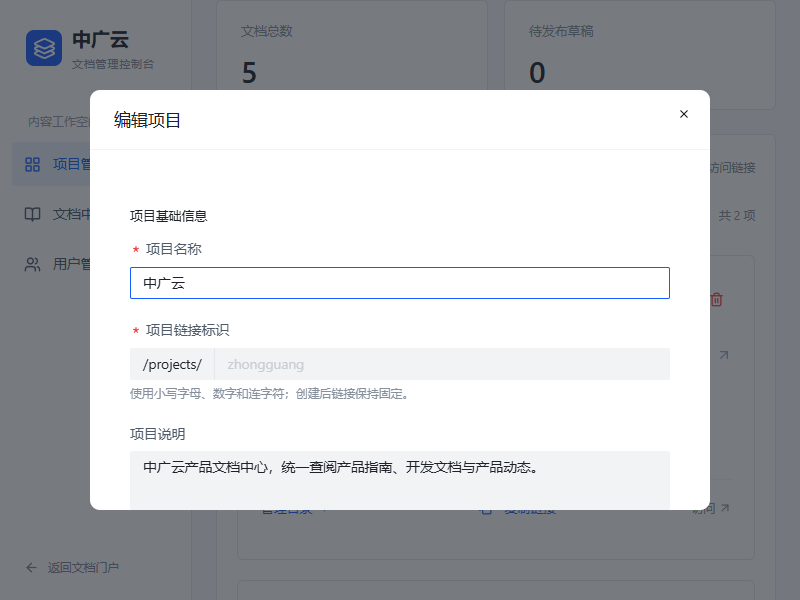
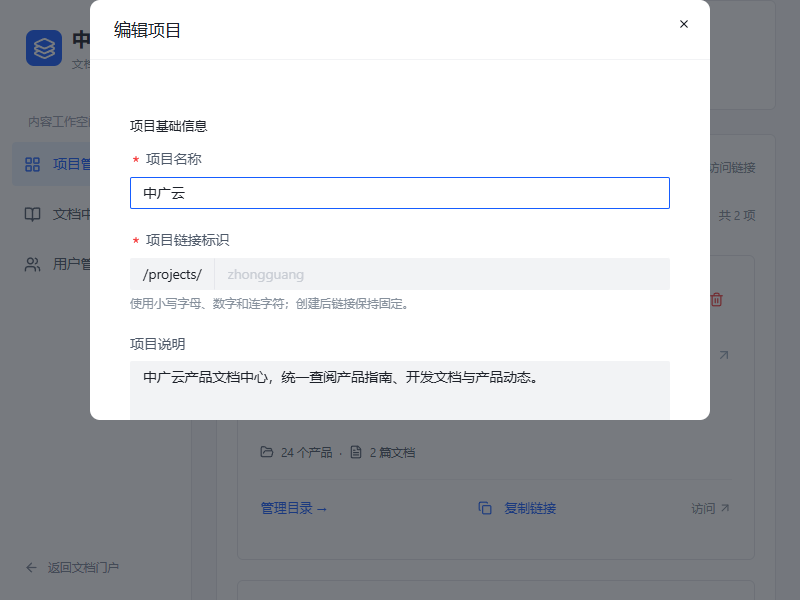
修复弹窗取消失效、统一弹窗限高策略、编辑器变量按项目上下文渲染
- 根因：上一版 .arco-modal-wrapper-align-center 全局 display:flex!important
  顶掉了 arco 关闭弹窗时的内联 display:none，导致所有弹窗（含新建后台用户）
  取消/Esc 后仍显示。改为只对固定高度表单弹窗加 wrapClassName=fixed-form-modal-wrapper
  （无内联冲突，可安全用 !important），其余弹窗恢复 arco 原生居中
- 统一限高：放开 .workspace-arco-modal 内容区的 max-height:60vh + 内部滚动
  （弹层已 portal 到 body，不会被裁剪），超高弹窗不再顶出屏幕
- 编辑器预览变量：新增 previewProjectId 上下文（从项目管理页打开编辑器时
  传入当前项目），文档绑定多项目时预览区提供项目切换下拉，
  修复中广云文档预览渲染成大数据变量的问题
- 新增 browser-test-product-modal.mjs / browser-test-varfix.mjs 回归测试

diff --git a/src/components/admin/DocumentEditor.tsx b/src/components/admin/DocumentEditor.tsx
@@ -133,11 +133,14 @@ export default function DocumentEditor({
   projects,
   onBack,
   onSaved,
+  previewProjectId: previewProjectIdProp,
 }: {
   initial: DocDetail;
   projects: Project[];
   onBack: () => void;
   onSaved: (doc: DocDetail) => void;
+  /** 预览变量渲染所用的项目（文档绑定多个项目时，决定 brand_name 等变量取谁的值） */
+  previewProjectId?: string;
 }) {
   const [doc, setDoc] = useState(initial);
   const [baseline, setBaseline] = useState(JSON.stringify(initial));
@@ -156,6 +159,15 @@ export default function DocumentEditor({
   const [panelOpen, setPanelOpen] = useState(true);
   const [full, setFull] = useState(false);
   const [bindingsDraft, setBindingsDraft] = useState<DocPlacement[] | null>(null);
+  // 预览按哪个项目渲染变量：优先取打开编辑器时传入的项目上下文，
+  // 否则取第一个绑定项目（文档可能同时绑定多个项目）
+  const [previewProjectId, setPreviewProjectId] = useState(
+    () =>
+      previewProjectIdProp ||
+      initial.placements?.[0]?.projectId ||
+      projects[0]?.id ||
+      "",
+  );
   const [styleDraft, setStyleDraft] = useState<{ className: string; style: string } | null>(null);
   const [customComponents, setCustomComponents] = useState<CustomComponentItem[]>([]);
   const [customDraft, setCustomDraft] = useState<CustomComponentItem | null>(null);
@@ -1019,20 +1031,34 @@ export default function DocumentEditor({
                 <div className="pane-label">
                   <span>实时预览</span>
                   <span className="live-dot">与发布样式一致</span>
+                  {(doc.placements?.length ?? 0) > 1 && (
+                    <Select
+                      size="mini"
+                      value={previewProjectId}
+                      onChange={(v) => setPreviewProjectId(String(v))}
+                      style={{ marginLeft: "auto", width: 150 }}
+                      triggerProps={{ autoAlignPopupWidth: false }}
+                    >
+                      {doc.placements!.map((p) => {
+                        const proj = projects.find((x) => x.id === p.projectId);
+                        return (
+                          <Select.Option key={p.projectId} value={p.projectId}>
+                            {proj?.name || p.projectId}
+                          </Select.Option>
+                        );
+                      })}
+                    </Select>
+                  )}
                 </div>
                 <article ref={previewArticleRef}>
                   <h1 className="preview-title">{doc.title || "文档标题"}</h1>
                   {preview ? (
                     <MarkdownRenderer
                       content={
-                        projects.find(
-                          (p) => p.id === doc.placements?.[0]?.projectId,
-                        )
+                        projects.find((p) => p.id === previewProjectId)
                           ? renderVariables(
                               preview,
-                              projects.find(
-                                (p) => p.id === doc.placements?.[0]?.projectId,
-                              )!,
+                              projects.find((p) => p.id === previewProjectId)!,
                             )
                           : preview
                       }

diff --git a/src/app/admin/arco-theme.css b/src/app/admin/arco-theme.css
@@ -319,8 +319,8 @@
 }
 .workspace-arco-modal .arco-modal-content {
   padding: 24px;
-  /* 弹窗整体限高：字段再多时内容区内部滚动，弹窗不无限长 */
-  max-height: 56vh;
+  /* 弹窗内容限高：字段再多时内容区内部滚动，弹窗不无限长顶出屏幕 */
+  max-height: 60vh;
   overflow-y: auto;
 }
 /* 项目/文档表单弹窗：固定为视口高度的 70%（上下留白），
@@ -329,9 +329,12 @@
   display: flex !important;
   flex-direction: column;
 }
-/* 垂直居中弹窗（project-form-modal 均开启 alignCenter）：
-   强制 wrapper  flex 居中并禁止滚动，避免整页/弹窗随滚轮滑动 */
-.arco-modal-wrapper-align-center {
+/* 固定高度表单弹窗的包裹层：垂直水平居中并禁止滚动（仅作用于
+   显式加了 wrapClassName="fixed-form-modal-wrapper" 的弹窗；
+   不能全局作用于 .arco-modal-wrapper-align-center，也不能用 !important——
+   arco 关闭弹窗时靠 wrapper 的内联 display:none 隐藏，!important 会顶掉它） */
+.fixed-form-modal-wrapper {
+  /* 这两个弹窗都开启了 unmountOnExit，关闭即卸载，不存在 display:none 的内联冲突 */
   display: flex !important;
   align-items: center;
   justify-content: center;
@@ -1131,17 +1134,19 @@
   padding: 24px;
   overflow: visible;
 }
-/* Ensure dropdown menus, select popups, and triggers in modals are never clipped */
+/* Ensure dropdown menus, select popups, and triggers in modals are never clipped.
+   注意：弹层内容经 DesignProvider getChildrenPopupContainer 已 portal 到 body，
+   这里的 overflow: visible 只保留给弹窗本体（阴影等），内容区放开内部滚动，
+   否则超高弹窗（内容超过视口）无处滚动。 */
 .workspace-arco-modal,
-.workspace-arco-modal .arco-modal-content,
-.editor-config-modal,
-.editor-config-modal .arco-modal-content {
+.editor-config-modal {
   overflow: visible !important;
 }
 /* 项目/文档表单弹窗例外：固定 70vh 高度，内容超高时内部滚动。
-   该弹窗内没有下拉浮层被裁剪的诉求，故覆盖上面的"不裁剪"规则 */
+   该弹窗内没有下拉浮层被裁剪的诉求，故覆盖上面的"不裁剪"与限高规则 */
 .workspace-arco-modal.project-form-modal .arco-modal-content {
   overflow-y: auto !important;
+  max-height: none;
 }
 .arco-select-popup,
 .arco-dropdown,

diff --git a/src/app/admin/page.tsx b/src/app/admin/page.tsx
@@ -95,6 +95,8 @@ export default function AdminPage() {
   const [projects, setProjects] = useState<Project[]>([]);
   const [documents, setDocuments] = useState<DocDetail[]>([]);
   const [editing, setEditing] = useState<DocDetail | null>(null);
+  // 打开编辑器时的项目上下文：预览里的 brand_name 等变量按这个项目的配置渲染
+  const [editingProjectId, setEditingProjectId] = useState("");
   const [projectForm, setProjectForm] = useState<ProjectForm | null>(null);
   const [managing, setManaging] = useState<string | null>(null);
   // 首次渲染时同步捕获上次的工作现场快照。必须在任何 setState 生效前完成——
@@ -338,6 +340,7 @@ export default function AdminPage() {
       return;
     }
     const id = crypto.randomUUID();
+    setEditingProjectId(bindings[0]?.projectId || "");
     setEditing({
       id,
       productId: "library",
@@ -402,6 +405,7 @@ export default function AdminPage() {
         key={`${editing.productId}/${editing.slug}`}
         initial={editing}
         projects={projects}
+        previewProjectId={editingProjectId}
         onBack={() => {
           setEditing(null);
           void load();
@@ -527,9 +531,13 @@ export default function AdminPage() {
               setManagerLocation({ productId: "", showUpdates: false });
             }}
             onReload={() => load()}
-            onEdit={setEditing}
+            onEdit={(doc) => {
+              setEditing(doc);
+              setEditingProjectId(managedProject.id);
+            }}
             onNew={(placement, source) => {
               const id = crypto.randomUUID();
+              setEditingProjectId(placement.projectId);
               setEditing({
                 id,
                 productId: "library",
@@ -1024,8 +1032,8 @@ export default function AdminPage() {
         closable={!busy}
         escToExit={!busy}
         className="workspace-arco-modal project-form-modal"
+        wrapClassName="fixed-form-modal-wrapper"
         style={{ width: 620, maxWidth: "calc(100vw - 32px)", height: "70vh" }}
-        alignCenter
       >
         {error && <Alert type="error" content={error} />}
         {projectForm ? (

diff --git a/src/components/admin/ProjectManager.tsx b/src/components/admin/ProjectManager.tsx
@@ -1019,8 +1019,8 @@ export default function ProjectManager({
         unmountOnExit
         closable={!busy}
         className="workspace-arco-modal project-form-modal"
+        wrapClassName="fixed-form-modal-wrapper"
         style={{ width: 580, maxWidth: "calc(100vw - 32px)", height: "70vh" }}
-        alignCenter
       >
         {form && (
           <Form
